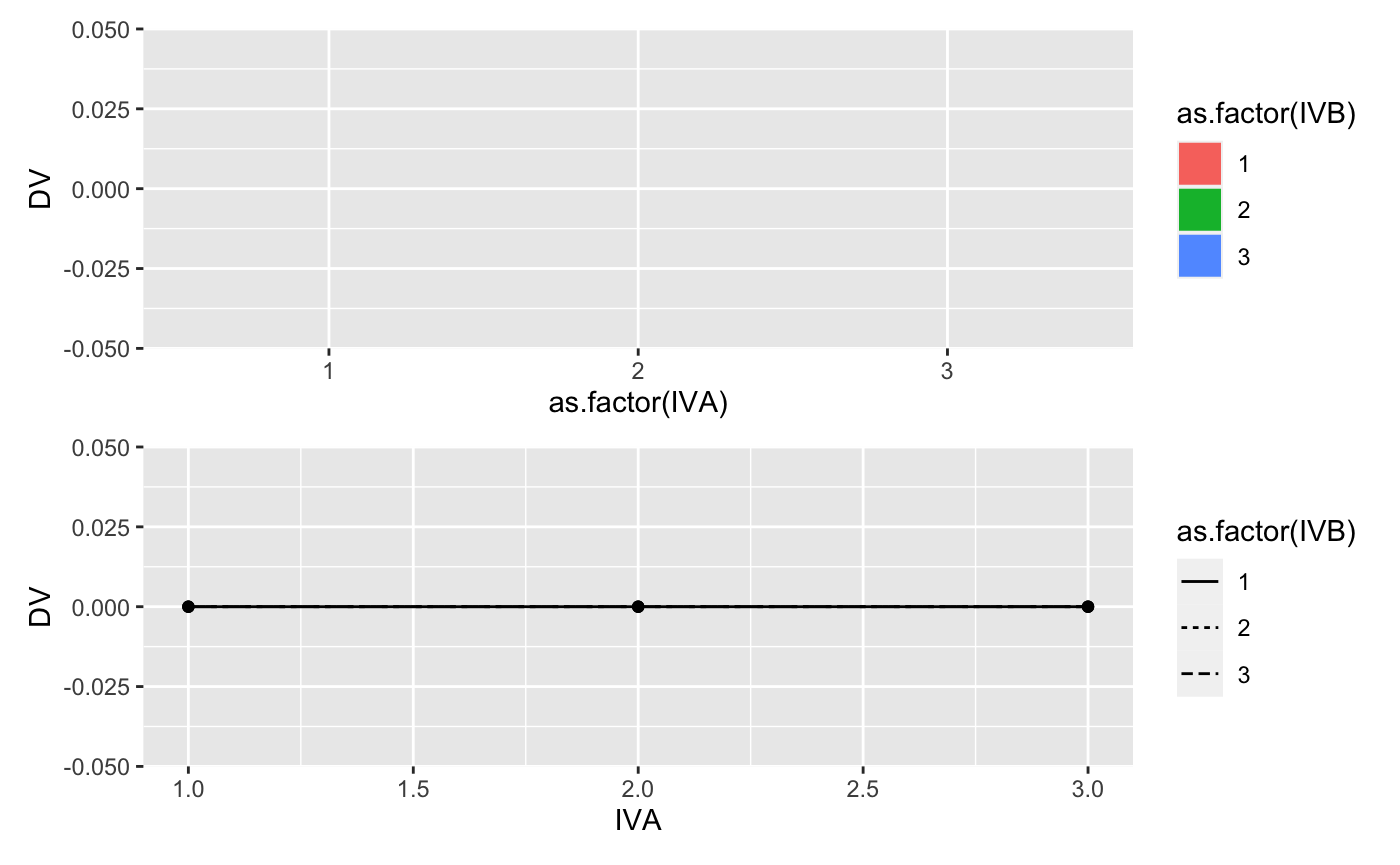
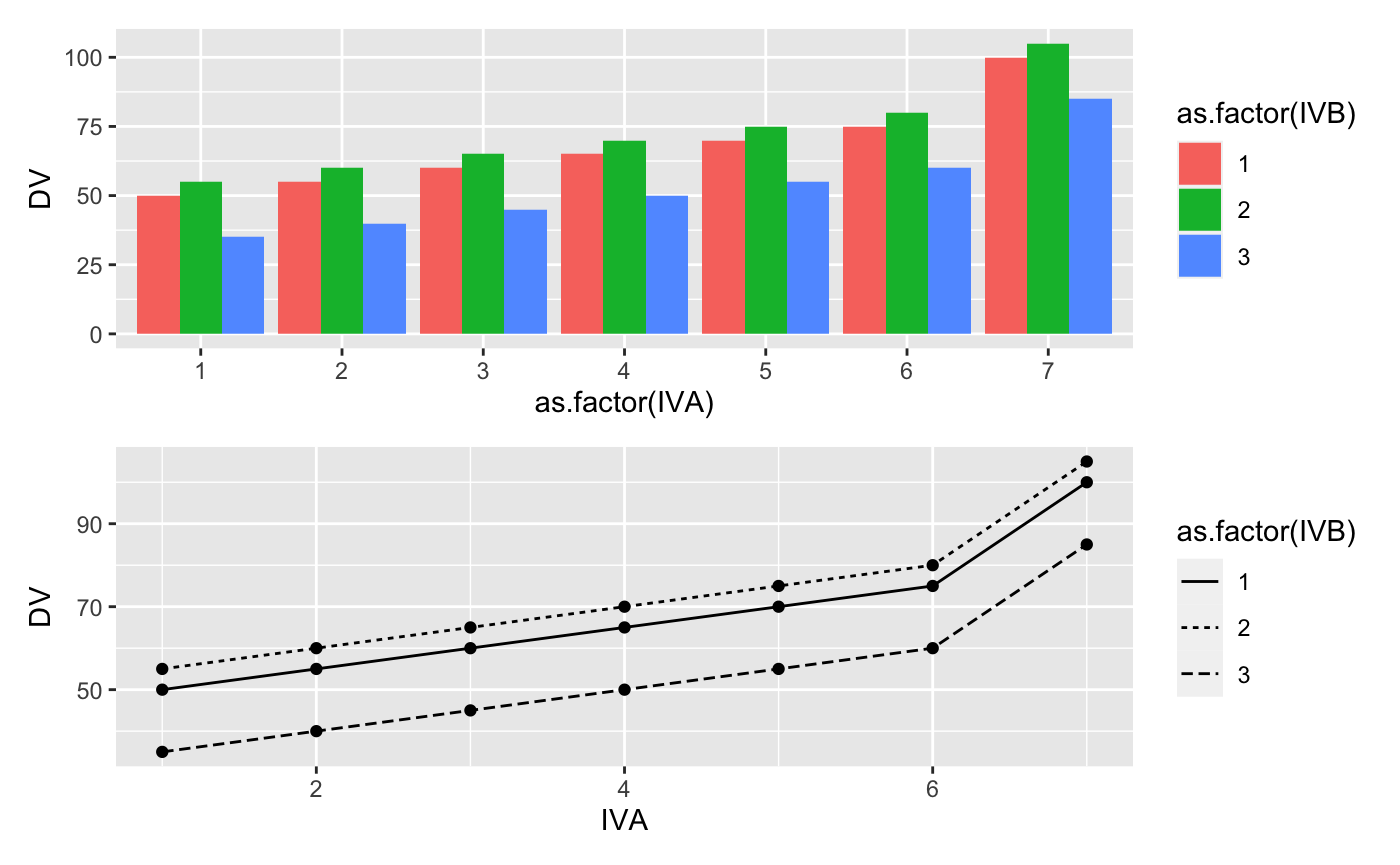
update lab 8

diff --git a/docs/articles/Stats2/Lab8_Contrasts.html b/docs/articles/Stats2/Lab8_Contrasts.html
@@ -254,9 +254,9 @@
 <span class="fu"><a href="https://rdrr.io/r/base/library.html">library</a></span>(<span class="no">patchwork</span>)
 
 <span class="co"># define 2-factor score model</span>
-<span class="no">grand_mean</span> <span class="kw">&lt;-</span> <span class="fl">0</span>
-<span class="no">A</span> <span class="kw">&lt;-</span> <span class="fu"><a href="https://rdrr.io/r/base/c.html">c</a></span>(<span class="fl">0</span>,<span class="fl">0</span>,<span class="fl">0</span>)
-<span class="no">B</span> <span class="kw">&lt;-</span> <span class="fu"><a href="https://rdrr.io/r/base/c.html">c</a></span>(<span class="fl">0</span>,<span class="fl">0</span>,<span class="fl">0</span>)
+<span class="no">grand_mean</span> <span class="kw">&lt;-</span> <span class="fl">50</span>
+<span class="no">A</span> <span class="kw">&lt;-</span> <span class="fu"><a href="https://rdrr.io/r/base/c.html">c</a></span>(<span class="fl">0</span>,<span class="fl">5</span>,<span class="fl">10</span>,<span class="fl">15</span>,<span class="fl">20</span>,<span class="fl">25</span>,<span class="fl">50</span>)
+<span class="no">B</span> <span class="kw">&lt;-</span> <span class="fu"><a href="https://rdrr.io/r/base/c.html">c</a></span>(<span class="fl">0</span>,<span class="fl">5</span>,-<span class="fl">15</span>)
 <span class="no">AB</span> <span class="kw">&lt;-</span> <span class="fu"><a href="https://rdrr.io/r/base/rep.html">rep</a></span>(<span class="fl">0</span>,<span class="fu"><a href="https://rdrr.io/r/base/length.html">length</a></span>(<span class="no">A</span>)*<span class="fu"><a href="https://rdrr.io/r/base/length.html">length</a></span>(<span class="no">B</span>))
 
 <span class="co"># create design table</span>
@@ -291,8 +291,8 @@
 <tr class="odd">
 <td align="right">1</td>
 <td align="right">1</td>
-<td align="right">0</td>
-<td align="right">0</td>
+<td align="right">50</td>
+<td align="right">50</td>
 <td align="right">0</td>
 <td align="right">0</td>
 <td align="right">0</td>
@@ -300,73 +300,181 @@
 <tr class="even">
 <td align="right">1</td>
 <td align="right">2</td>
+<td align="right">55</td>
+<td align="right">50</td>
 <td align="right">0</td>
-<td align="right">0</td>
-<td align="right">0</td>
-<td align="right">0</td>
+<td align="right">5</td>
 <td align="right">0</td>
 </tr>
 <tr class="odd">
 <td align="right">1</td>
 <td align="right">3</td>
+<td align="right">35</td>
+<td align="right">50</td>
 <td align="right">0</td>
-<td align="right">0</td>
-<td align="right">0</td>
-<td align="right">0</td>
+<td align="right">-15</td>
 <td align="right">0</td>
 </tr>
 <tr class="even">
 <td align="right">2</td>
 <td align="right">1</td>
-<td align="right">0</td>
-<td align="right">0</td>
-<td align="right">0</td>
+<td align="right">55</td>
+<td align="right">50</td>
+<td align="right">5</td>
 <td align="right">0</td>
 <td align="right">0</td>
 </tr>
 <tr class="odd">
 <td align="right">2</td>
 <td align="right">2</td>
-<td align="right">0</td>
-<td align="right">0</td>
-<td align="right">0</td>
-<td align="right">0</td>
+<td align="right">60</td>
+<td align="right">50</td>
+<td align="right">5</td>
+<td align="right">5</td>
 <td align="right">0</td>
 </tr>
 <tr class="even">
 <td align="right">2</td>
 <td align="right">3</td>
-<td align="right">0</td>
-<td align="right">0</td>
-<td align="right">0</td>
-<td align="right">0</td>
+<td align="right">40</td>
+<td align="right">50</td>
+<td align="right">5</td>
+<td align="right">-15</td>
 <td align="right">0</td>
 </tr>
 <tr class="odd">
 <td align="right">3</td>
 <td align="right">1</td>
-<td align="right">0</td>
-<td align="right">0</td>
-<td align="right">0</td>
+<td align="right">60</td>
+<td align="right">50</td>
+<td align="right">10</td>
 <td align="right">0</td>
 <td align="right">0</td>
 </tr>
 <tr class="even">
 <td align="right">3</td>
 <td align="right">2</td>
-<td align="right">0</td>
-<td align="right">0</td>
-<td align="right">0</td>
-<td align="right">0</td>
+<td align="right">65</td>
+<td align="right">50</td>
+<td align="right">10</td>
+<td align="right">5</td>
 <td align="right">0</td>
 </tr>
 <tr class="odd">
 <td align="right">3</td>
 <td align="right">3</td>
+<td align="right">45</td>
+<td align="right">50</td>
+<td align="right">10</td>
+<td align="right">-15</td>
+<td align="right">0</td>
+</tr>
+<tr class="even">
+<td align="right">4</td>
+<td align="right">1</td>
+<td align="right">65</td>
+<td align="right">50</td>
+<td align="right">15</td>
 <td align="right">0</td>
 <td align="right">0</td>
+</tr>
+<tr class="odd">
+<td align="right">4</td>
+<td align="right">2</td>
+<td align="right">70</td>
+<td align="right">50</td>
+<td align="right">15</td>
+<td align="right">5</td>
+<td align="right">0</td>
+</tr>
+<tr class="even">
+<td align="right">4</td>
+<td align="right">3</td>
+<td align="right">50</td>
+<td align="right">50</td>
+<td align="right">15</td>
+<td align="right">-15</td>
+<td align="right">0</td>
+</tr>
+<tr class="odd">
+<td align="right">5</td>
+<td align="right">1</td>
+<td align="right">70</td>
+<td align="right">50</td>
+<td align="right">20</td>
 <td align="right">0</td>
 <td align="right">0</td>
+</tr>
+<tr class="even">
+<td align="right">5</td>
+<td align="right">2</td>
+<td align="right">75</td>
+<td align="right">50</td>
+<td align="right">20</td>
+<td align="right">5</td>
+<td align="right">0</td>
+</tr>
+<tr class="odd">
+<td align="right">5</td>
+<td align="right">3</td>
+<td align="right">55</td>
+<td align="right">50</td>
+<td align="right">20</td>
+<td align="right">-15</td>
+<td align="right">0</td>
+</tr>
+<tr class="even">
+<td align="right">6</td>
+<td align="right">1</td>
+<td align="right">75</td>
+<td align="right">50</td>
+<td align="right">25</td>
+<td align="right">0</td>
+<td align="right">0</td>
+</tr>
+<tr class="odd">
+<td align="right">6</td>
+<td align="right">2</td>
+<td align="right">80</td>
+<td align="right">50</td>
+<td align="right">25</td>
+<td align="right">5</td>
+<td align="right">0</td>
+</tr>
+<tr class="even">
+<td align="right">6</td>
+<td align="right">3</td>
+<td align="right">60</td>
+<td align="right">50</td>
+<td align="right">25</td>
+<td align="right">-15</td>
+<td align="right">0</td>
+</tr>
+<tr class="odd">
+<td align="right">7</td>
+<td align="right">1</td>
+<td align="right">100</td>
+<td align="right">50</td>
+<td align="right">50</td>
+<td align="right">0</td>
+<td align="right">0</td>
+</tr>
+<tr class="even">
+<td align="right">7</td>
+<td align="right">2</td>
+<td align="right">105</td>
+<td align="right">50</td>
+<td align="right">50</td>
+<td align="right">5</td>
+<td align="right">0</td>
+</tr>
+<tr class="odd">
+<td align="right">7</td>
+<td align="right">3</td>
+<td align="right">85</td>
+<td align="right">50</td>
+<td align="right">50</td>
+<td align="right">-15</td>
 <td align="right">0</td>
 </tr>
 </tbody>
@@ -395,9 +503,9 @@
 <p>For example, consider the following toy example. We will conduct an experiment, and the first IV will have three levels (0,5,10), indicating how much money participants are paid when they complete the experiment. The second IV will also have three levels (0,5,10), indicating how much bonus money participants are paid when they complete the experiment. The DV will be how much money in total the participant is given by the experimenter at the end of the experiment.</p>
 <p>Consider how we would represent this experiment using the code from above. First, we program in the expected means for each level of the first and second IV. Second, we do not program an interaction term.</p>
 <div class="sourceCode" id="cb3"><html><body><pre class="r"><span class="co"># define 2-factor score model</span>
-<span class="no">grand_mean</span> <span class="kw">&lt;-</span> <span class="fl">0</span>
-<span class="no">A</span> <span class="kw">&lt;-</span> <span class="fu"><a href="https://rdrr.io/r/base/c.html">c</a></span>(<span class="fl">0</span>,<span class="fl">5</span>,<span class="fl">10</span>)
-<span class="no">B</span> <span class="kw">&lt;-</span> <span class="fu"><a href="https://rdrr.io/r/base/c.html">c</a></span>(<span class="fl">0</span>,<span class="fl">5</span>,<span class="fl">10</span>)
+<span class="no">grand_mean</span> <span class="kw">&lt;-</span> <span class="fl">10</span>
+<span class="no">A</span> <span class="kw">&lt;-</span> <span class="fu"><a href="https://rdrr.io/r/base/c.html">c</a></span>(-<span class="fl">5</span>,<span class="fl">0</span>,<span class="fl">5</span>)
+<span class="no">B</span> <span class="kw">&lt;-</span> <span class="fu"><a href="https://rdrr.io/r/base/c.html">c</a></span>(-<span class="fl">5</span>,<span class="fl">0</span>,<span class="fl">5</span>)
 <span class="no">AB</span> <span class="kw">&lt;-</span> <span class="fu"><a href="https://rdrr.io/r/base/rep.html">rep</a></span>(<span class="fl">0</span>,<span class="fu"><a href="https://rdrr.io/r/base/length.html">length</a></span>(<span class="no">A</span>)*<span class="fu"><a href="https://rdrr.io/r/base/length.html">length</a></span>(<span class="no">B</span>))
 
 <span class="co"># create design table</span>
@@ -433,81 +541,81 @@
 <td align="right">1</td>
 <td align="right">1</td>
 <td align="right">0</td>
-<td align="right">0</td>
-<td align="right">0</td>
-<td align="right">0</td>
+<td align="right">10</td>
+<td align="right">-5</td>
+<td align="right">-5</td>
 <td align="right">0</td>
 </tr>
 <tr class="even">
 <td align="right">1</td>
 <td align="right">2</td>
 <td align="right">5</td>
+<td align="right">10</td>
+<td align="right">-5</td>
 <td align="right">0</td>
-<td align="right">0</td>
-<td align="right">5</td>
 <td align="right">0</td>
 </tr>
 <tr class="odd">
 <td align="right">1</td>
 <td align="right">3</td>
 <td align="right">10</td>
-<td align="right">0</td>
-<td align="right">0</td>
 <td align="right">10</td>
+<td align="right">-5</td>
+<td align="right">5</td>
 <td align="right">0</td>
 </tr>
 <tr class="even">
 <td align="right">2</td>
 <td align="right">1</td>
 <td align="right">5</td>
+<td align="right">10</td>
 <td align="right">0</td>
-<td align="right">5</td>
-<td align="right">0</td>
+<td align="right">-5</td>
 <td align="right">0</td>
 </tr>
 <tr class="odd">
 <td align="right">2</td>
 <td align="right">2</td>
 <td align="right">10</td>
+<td align="right">10</td>
 <td align="right">0</td>
-<td align="right">5</td>
-<td align="right">5</td>
+<td align="right">0</td>
 <td align="right">0</td>
 </tr>
 <tr class="even">
 <td align="right">2</td>
 <td align="right">3</td>
 <td align="right">15</td>
+<td align="right">10</td>
 <td align="right">0</td>
 <td align="right">5</td>
-<td align="right">10</td>
 <td align="right">0</td>
 </tr>
 <tr class="odd">
 <td align="right">3</td>
 <td align="right">1</td>
 <td align="right">10</td>
-<td align="right">0</td>
 <td align="right">10</td>
-<td align="right">0</td>
+<td align="right">5</td>
+<td align="right">-5</td>
 <td align="right">0</td>
 </tr>
 <tr class="even">
 <td align="right">3</td>
 <td align="right">2</td>
 <td align="right">15</td>
-<td align="right">0</td>
 <td align="right">10</td>
 <td align="right">5</td>
+<td align="right">0</td>
 <td align="right">0</td>
 </tr>
 <tr class="odd">
 <td align="right">3</td>
 <td align="right">3</td>
 <td align="right">20</td>
-<td align="right">0</td>
 <td align="right">10</td>
-<td align="right">10</td>
+<td align="right">5</td>
+<td align="right">5</td>
 <td align="right">0</td>
 </tr>
 </tbody>
@@ -653,7 +761,7 @@
 <p><img src="Lab8_Contrasts_files/figure-html/unnamed-chunk-5-1.png" width="700"> ## Concept II: Simulated power analysis</p>
 <p>The following code block gives an example of simulating data for a 2x2 design that can be used to estimate power (proportion of experiments returning a significant result) for each main effect and interaction.</p>
 <div class="sourceCode" id="cb8"><html><body><pre class="r"><span class="co"># N per group</span>
-<span class="no">N</span> <span class="kw">&lt;-</span> <span class="fl">10</span>
+<span class="no">N</span> <span class="kw">&lt;-</span> <span class="fl">40</span>
 
 <span class="no">A_pvalue</span> <span class="kw">&lt;-</span> <span class="fu"><a href="https://rdrr.io/r/base/c.html">c</a></span>()
 <span class="no">B_pvalue</span> <span class="kw">&lt;-</span> <span class="fu"><a href="https://rdrr.io/r/base/c.html">c</a></span>()
@@ -663,21 +771,21 @@
   <span class="no">IVB</span> <span class="kw">&lt;-</span> <span class="fu"><a href="https://rdrr.io/r/base/rep.html">rep</a></span>(<span class="fu"><a href="https://rdrr.io/r/base/rep.html">rep</a></span>(<span class="fu"><a href="https://rdrr.io/r/base/c.html">c</a></span>(<span class="st">"1"</span>,<span class="st">"2"</span>), <span class="fl">2</span>),<span class="no">N</span>)
   <span class="no">DV</span> <span class="kw">&lt;-</span> <span class="fu"><a href="https://rdrr.io/r/base/c.html">c</a></span>(<span class="fu"><a href="https://rdrr.io/r/base/lapply.html">replicate</a></span>(<span class="no">N</span>,<span class="fu"><a href="https://rdrr.io/r/base/c.html">c</a></span>(<span class="fu"><a href="https://rdrr.io/r/stats/Normal.html">rnorm</a></span>(<span class="fl">1</span>,<span class="fl">0</span>,<span class="fl">1</span>), <span class="co"># means A1B1</span>
                         <span class="fu"><a href="https://rdrr.io/r/stats/Normal.html">rnorm</a></span>(<span class="fl">1</span>,<span class="fl">0</span>,<span class="fl">1</span>), <span class="co"># means A1B2</span>
-                        <span class="fu"><a href="https://rdrr.io/r/stats/Normal.html">rnorm</a></span>(<span class="fl">1</span>,<span class="fl">0</span>,<span class="fl">1</span>), <span class="co"># means A2B1</span>
-                        <span class="fu"><a href="https://rdrr.io/r/stats/Normal.html">rnorm</a></span>(<span class="fl">1</span>,<span class="fl">0</span>,<span class="fl">1</span>)  <span class="co"># means A2B2</span>
+                        <span class="fu"><a href="https://rdrr.io/r/stats/Normal.html">rnorm</a></span>(<span class="fl">1</span>,<span class="fl">.5</span>,<span class="fl">1</span>), <span class="co"># means A2B1</span>
+                        <span class="fu"><a href="https://rdrr.io/r/stats/Normal.html">rnorm</a></span>(<span class="fl">1</span>,<span class="fl">.5</span>,<span class="fl">1</span>)  <span class="co"># means A2B2</span>
           )))
   <span class="no">sim_df</span> <span class="kw">&lt;-</span> <span class="fu"><a href="https://rdrr.io/r/base/data.frame.html">data.frame</a></span>(<span class="no">IVA</span>,<span class="no">IVB</span>,<span class="no">DV</span>)
 
   <span class="no">aov_results</span> <span class="kw">&lt;-</span> <span class="fu"><a href="https://rdrr.io/r/base/summary.html">summary</a></span>(<span class="fu"><a href="https://rdrr.io/r/stats/aov.html">aov</a></span>(<span class="no">DV</span>~<span class="no">IVA</span>*<span class="no">IVB</span>, <span class="no">sim_df</span>))
   <span class="no">A_pvalue</span>[<span class="no">i</span>]<span class="kw">&lt;-</span><span class="no">aov_results</span><span class="kw">[[</span><span class="fl">1</span>]]$<span class="no">`Pr(&gt;F)`</span>[<span class="fl">1</span>]
-  <span class="no">B_pvalue</span>[<span class="no">i</span>]<span class="kw">&lt;-</span><span class="no">aov_results</span><span class="kw">[[</span><span class="fl">1</span>]]$<span class="no">`Pr(&gt;F)`</span>[<span class="fl">1</span>]
-  <span class="no">AB_pvalue</span>[<span class="no">i</span>]<span class="kw">&lt;-</span><span class="no">aov_results</span><span class="kw">[[</span><span class="fl">1</span>]]$<span class="no">`Pr(&gt;F)`</span>[<span class="fl">1</span>]
+  <span class="no">B_pvalue</span>[<span class="no">i</span>]<span class="kw">&lt;-</span><span class="no">aov_results</span><span class="kw">[[</span><span class="fl">1</span>]]$<span class="no">`Pr(&gt;F)`</span>[<span class="fl">2</span>]
+  <span class="no">AB_pvalue</span>[<span class="no">i</span>]<span class="kw">&lt;-</span><span class="no">aov_results</span><span class="kw">[[</span><span class="fl">1</span>]]$<span class="no">`Pr(&gt;F)`</span>[<span class="fl">3</span>]
 }
 
 <span class="fu"><a href="https://rdrr.io/r/base/length.html">length</a></span>(<span class="no">A_pvalue</span>[<span class="no">A_pvalue</span><span class="kw">&lt;</span><span class="fl">0.05</span>])/<span class="fl">1000</span>
-<span class="co">#&gt; [1] 0.053</span>
+<span class="co">#&gt; [1] 0.855</span>
 <span class="fu"><a href="https://rdrr.io/r/base/length.html">length</a></span>(<span class="no">B_pvalue</span>[<span class="no">B_pvalue</span><span class="kw">&lt;</span><span class="fl">0.05</span>])/<span class="fl">1000</span>
-<span class="co">#&gt; [1] 0.053</span>
+<span class="co">#&gt; [1] 0.064</span>
 <span class="fu"><a href="https://rdrr.io/r/base/length.html">length</a></span>(<span class="no">AB_pvalue</span>[<span class="no">AB_pvalue</span><span class="kw">&lt;</span><span class="fl">0.05</span>])/<span class="fl">1000</span>
 <span class="co">#&gt; [1] 0.053</span></pre></body></html></div>
 </div>
@@ -707,6 +815,8 @@
 <p>Conduct simulation-based power analyses to answer the questions.</p>
 <p>B. How many subjects are needed to detect the main effect of A with power = .8? (2 points)</p>
 <p>C. How many subjects are needed to detect the interaction effect with power = .8? (2 points)</p>
+<p>Bonus point question:</p>
+<p>B1. Create a power curve showing how power for the interaction effect in this example is influenced by number of subjects. Choose a range of N from 25 to 800 (per cell) and run a simulation-based power analysis for increments of 25 subjects. Then plot the results using ggplot2 (2 points).</p>
 </div>
 </div>
 <div id="references" class="section level2 unnumbered">
